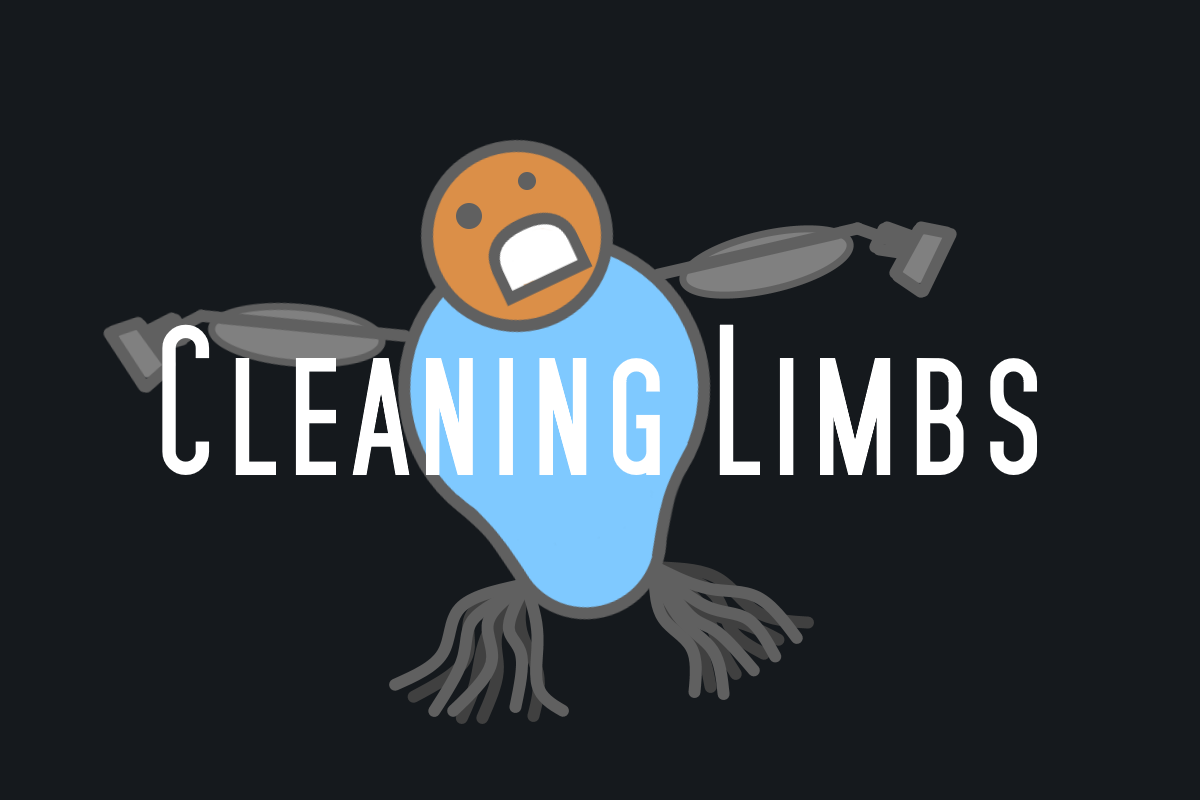
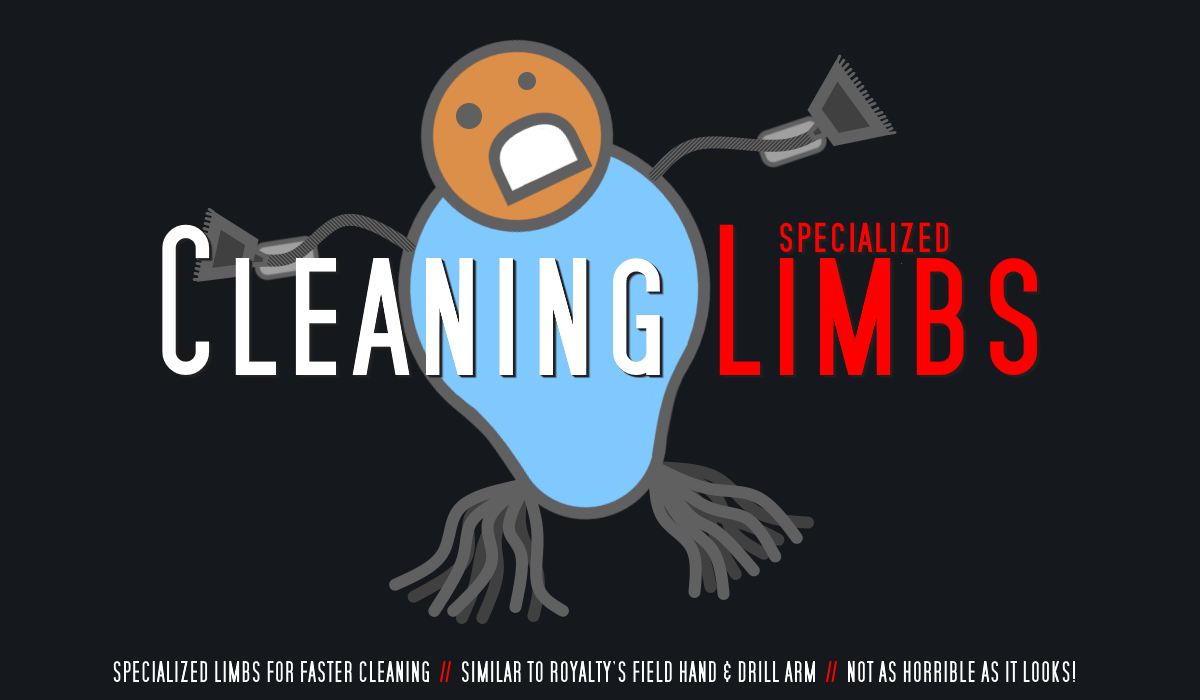
Added snow cleaning speed up // added Royalty as a requirement // updated Preview.png

Changed region(s): [[0.0925, 0.06, 0.8633, 0.9], [0.0925, 0.93, 0.8942, 0.99]]

diff --git a/Source/HarmonyPatches.cs b/Source/HarmonyPatches.cs
@@ -22,6 +22,10 @@ namespace CleaningLimbs
 			harmony.Patch(
 				typeof(JobDriver_CleanFilth).GetMethod("MakeNewToils", BindingFlags.Instance | BindingFlags.NonPublic),
 				postfix: new HarmonyMethod(typeof(HarmonyPatches), nameof(HarmonyPatches.JobDriver_CleanFilth_MakeNewToils_Postfix)));
+
+			harmony.Patch(
+				typeof(JobDriver_ClearSnow).GetMethod("MakeNewToils", BindingFlags.Instance | BindingFlags.NonPublic),
+				postfix: new HarmonyMethod(typeof(HarmonyPatches), nameof(HarmonyPatches.JobDriver_ClearSnow_MakeNewToils_Postfix)));
 		}
 
 		static IEnumerable<Toil> JobDriver_CleanFilth_MakeNewToils_Postfix(IEnumerable<Toil> toils, JobDriver_CleanFilth __instance)
@@ -76,7 +80,7 @@ namespace CleaningLimbs
 						// mop feet'ing
 						if (feet > 0)
 						{
-							CleanAdjacent(toil, filth, __instance.Map, feet);
+							CleanAdjacent(toil, __instance.Map, filth, feet);
 						}
 
 						// base functionality
@@ -91,7 +95,7 @@ namespace CleaningLimbs
 			}
 
 			// function to clean adjacent tiles
-			void CleanAdjacent(Toil toil, Filth filth, Map map, int feet)
+			void CleanAdjacent(Toil toil, Map map, Filth filth, int feet)
 			{
 				var cleans = feet * 2;
 				foreach (var cell in GenAdj.AdjacentCellsAround)
@@ -125,6 +129,76 @@ namespace CleaningLimbs
 				while (!filth.Destroyed && cleans-- > 0)
 				{
 					filth.ThinFilth();
+				}
+			}
+		}
+
+
+		static IEnumerable<Toil> JobDriver_ClearSnow_MakeNewToils_Postfix(IEnumerable<Toil> toils, JobDriver_ClearSnow __instance)
+		{
+			int c = toils.Count();
+			foreach (var toil in toils)
+			{
+				if (--c == 0) // hopefully the clearing snow job will always be the last job in the list...
+					ReplaceCleanToilAction(toil);
+				yield return toil;
+			}
+
+			void ReplaceCleanToilAction(Toil toil)
+			{
+				// count number of parts ... there are probably more efficient ways to handle this
+				int hands = 0;
+				int feet = 0;
+				foreach (var part in __instance.pawn.health.hediffSet.GetHediffs<Hediff_AddedPart>())
+				{
+					var name = part.def.defName;
+					switch (name)
+					{
+						case "VacuumHand":
+							hands++;
+							break;
+						case "MopFoot":
+							feet++;
+							break;
+					}
+				}
+
+				// replace tick action
+				toil.tickAction = delegate
+				{
+					float statValue = toil.actor.GetStatValue(StatDefOf.GeneralLaborSpeed);
+					__instance.workDone += statValue + hands * 0.50f;
+					if (__instance.workDone >= __instance.TotalNeededWork)
+					{
+						var map = __instance.Map;
+						var loc = __instance.TargetLocA;
+						map.snowGrid.SetDepth(loc, 0f);
+
+						if (feet > 0)
+							CleanAdjacent(toil, map, loc, feet);
+
+						__instance.ReadyForNextToil();
+					}
+				};
+			}
+
+			// function to clean adjacent tiles
+			void CleanAdjacent(Toil toil, Map map, IntVec3 center, int feet)
+			{
+				var clears = feet * 2;
+				foreach (var cell in GenAdj.AdjacentCellsAround)
+				{
+					var loc = center + cell;
+					// search for snow
+					if (map.snowGrid.GetDepth(loc) > 0f)
+					{
+						// clear snow
+						map.snowGrid.SetDepth(loc, 0f);
+
+						// limit to max number of cleans
+						if (--clears == 0)
+							return;
+					}
 				}
 			}
 		}
